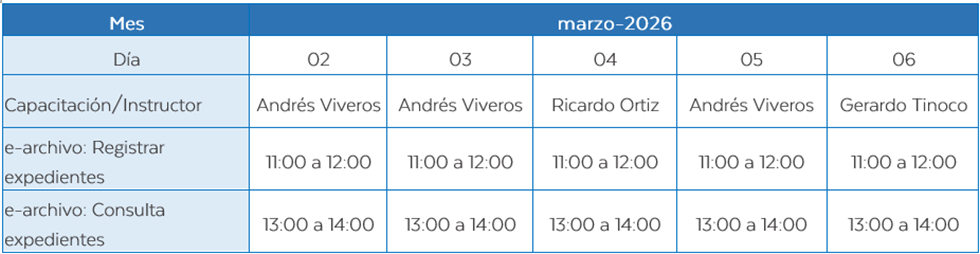
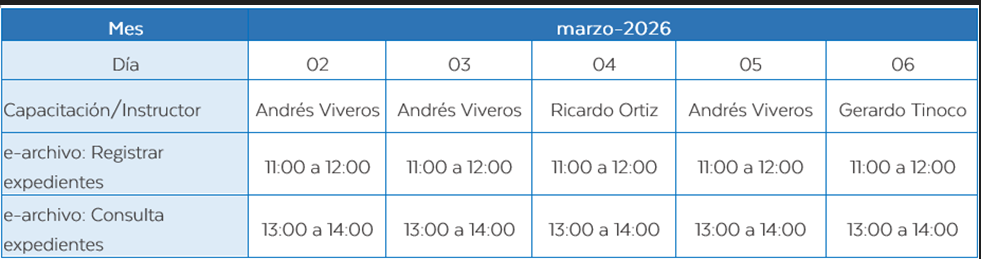
mike

diff --git a/app/Views/personal/vInicio.php b/app/Views/personal/vInicio.php
@@ -727,8 +727,8 @@
                                                 <a href="<?= base_url() ?>assets/mike.png" target="_blank" >
                                                 <div class="card-body">
                                                     <div class="blog-card">
-                                                        <h4 class="header-title mt-0 mb-4">Semana del 16 de febrero al 20 de febrero, acciones SIGAP</h4>
-                                                        <iframe src="<?= base_url() ?>assets/mike.png" alt="" width="100%"
+                                                        <h4 class="header-title mt-0 mb-4">Semana del 2 de marzo al 6 de marzo, acciones SIGAP</h4>
+                                                        <iframe src="<?= base_url() ?>assets/mike.png" alt="" width="100%" height="500px"
                                                             class="img-fluid" ></iframe>
                                                     </div><!--end blog-card-->
                                                        <a href="https://meet.google.com/pdv-qzjy-bga"
